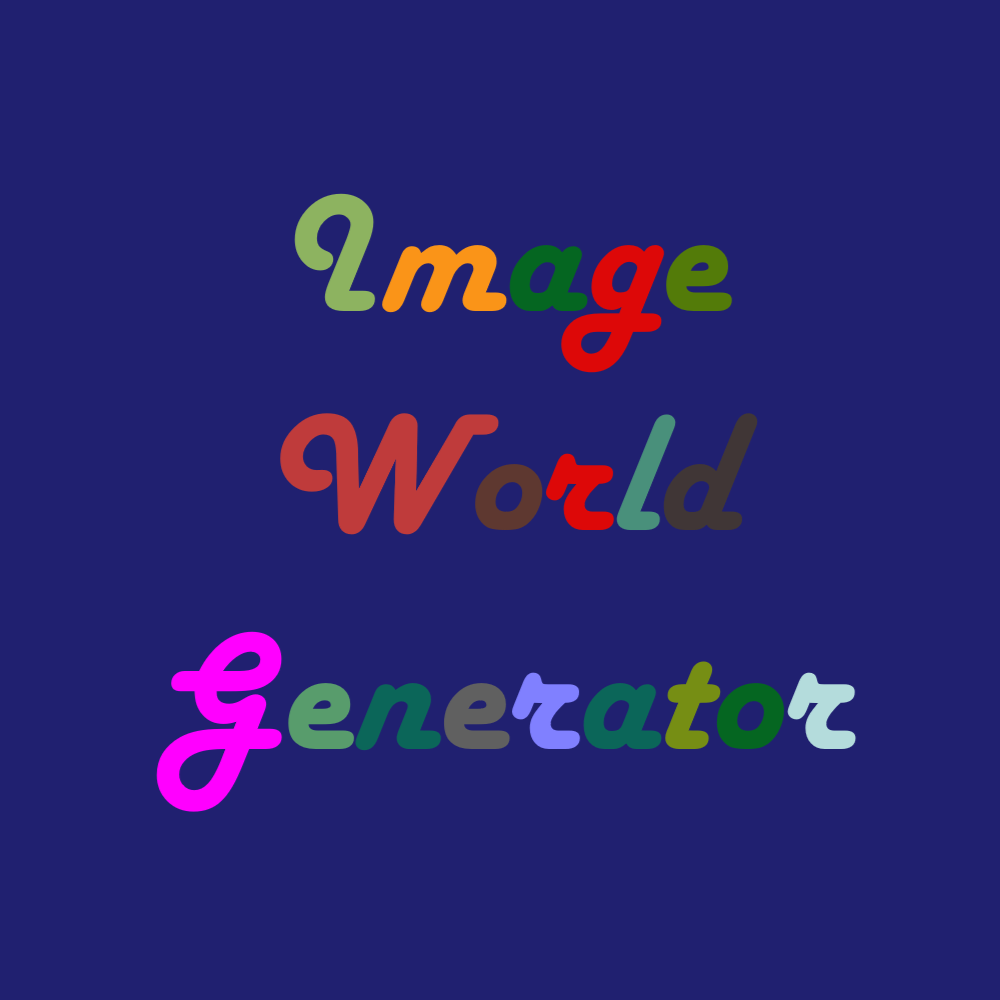
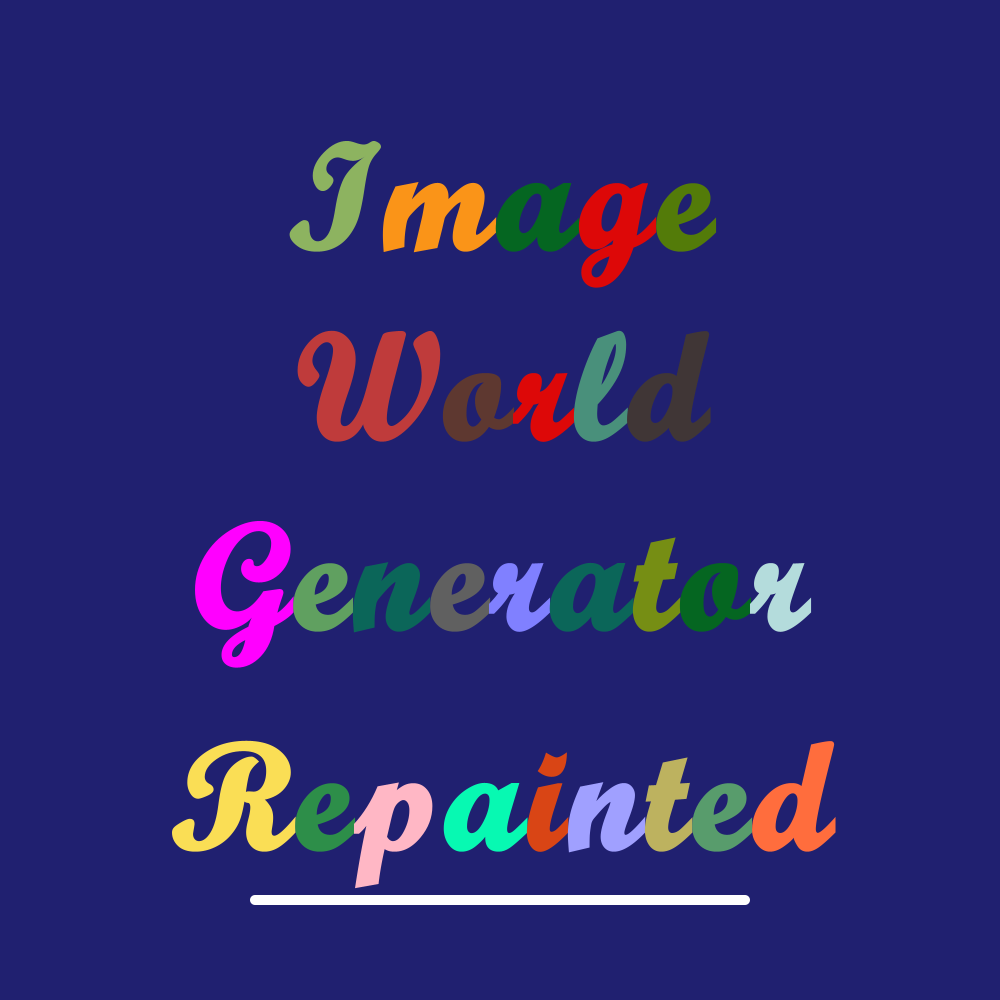
chore: rename to Image World Generator: Repainted and add publish assets
Prepare the first release of this continuation under a name of its own,
so it cannot be mistaken for the original mod. The mod id stays imggen.

- Set the display name to "Image World Generator: Repainted" and use it
  as the README title.
- Replace the in-game icon with one in the style of the original,
  adding the word "Repainted".
- Add a publish folder with the project page description, the other
  listing details (summary, categories, dependencies, links,
  changelog), the logo and gallery pictures.

Assisted-by: claude-opus-5.5

Changed region(s): [[0.155, 0.124, 0.868, 0.93]]

diff --git a/publish/listing.md b/publish/listing.md
@@ -1,0 +1,73 @@
+# Listing details
+
+Everything a project page asks for besides the long description, which is in `description.md`.
+
+## Name
+
+Image World Generator: Repainted
+
+Mod id: `imggen` (unchanged from the original mod)
+
+## Summary
+
+Generate a Minecraft world from images: paint biomes, heights and structures as colours and the terrain
+follows your map. Unofficial NeoForge continuation of ImageWorldGenerator.
+
+## Categories
+
+- CurseForge: World Gen, with the subcategories Biomes and Structures
+- Modrinth: `worldgen`, optionally `adventure`
+
+## Environment
+
+- Server: required
+- Client: required in single player. Not verified for clients joining a server that has the mod; without
+  it the feedback of the `/imggen` command shows untranslated keys.
+
+## Dependencies
+
+| | |
+| --- | --- |
+| Required | Minecraft 1.21.1, NeoForge 21.1.x, Java 21 |
+| Optional | TerraBlender 4.1 or newer |
+
+Built and tested against NeoForge 21.1.228.
+
+## License
+
+LGPL-3.0, the license of the original mod.
+
+## Files
+
+- `logo.png`: 1000x1000 project icon, in the style of the original mod's icon
+- `images/`: pictures for the gallery of the project page. The description cannot refer to local files, so
+  it contains none; upload them to the gallery instead.
+  - `painted-map.png` and `generated-world.png`: an input image and the world generated from it
+  - `map-to-world.png`: both halves in one picture
+
+## Links
+
+Entered in the link fields of the project page, not in the description:
+
+- Source: https://github.com/U15383319/ImageWorldGenerator-Unofficial
+- Issues: https://github.com/U15383319/ImageWorldGenerator-Unofficial/issues
+
+## Changelog
+
+### 2.0.0 for NeoForge 1.21.1
+
+First release of this continuation. Compared to ImageWorldGenerator 1.3.2 (Fabric 1.16.5):
+
+- Ported to NeoForge for Minecraft 1.21.1.
+- Terrain follows the painted biomes: oceans, rivers, beaches, hills and peaks are shaped from the image.
+- The world type is now a regular world preset ("Image World"); on servers use `level-type=imggen\:imggen`.
+- Biomes of other mods: `/imggen colors` assigns colours and writes a reference sheet; TerraBlender based
+  mods keep their own surface blocks.
+- Nether, End and void biomes can be painted into the overworld.
+- Outside the image the world is void by default. New option `limitWorldToImage` adds a world border
+  around the image.
+- Players spawn on land inside the image.
+- Images are loaded once into a compact form; any number of colours is supported.
+- Removed options: `largeBiomes`, `segmentImageWidth`, `segmentImageHeight`, `imageCacheSize`.
+- Existing config files keep working; `continuousGen` and `defaultBiome` only change for newly created
+  configs.

diff --git a/publish/description.md b/publish/description.md
@@ -1,0 +1,29 @@
+# Image World Generator: Repainted
+
+**Turn a picture into a world.** This mod generates a Minecraft world from an image: every colour becomes a biome and the terrain follows it. Oceans are deep, rivers cut valleys, beaches sit at the waterline and peaks become mountains. Optional images set exact heights and place structures.
+
+> This is an **unofficial continuation** of [ImageWorldGenerator](https://github.com/28Pollux28/ImageWorldGenerator) by 28Pollux28 (Fabric, Minecraft 1.16.5), ported to NeoForge 1.21.1 and reworked for the new world generation. It is not affiliated with the original author. Licensed under LGPL-3.0, like the original.
+
+## Features
+
+- **Any image works.** Every pixel is matched to the biome with the closest colour. All vanilla biomes have a built-in colour, and you can add or override colours in the config.
+- **Terrain that fits the picture.** The shoreline follows the image, while the land itself is shaped by the game's own terrain noise, so it looks natural and keeps its caves, aquifers and ores.
+- **Height map (optional).** A greyscale image sets the exact surface height of every column.
+- **Structure image (optional).** Place villages, temples, strongholds and other structures where you want them, and blacklist the ones you do not want at all.
+- **Biomes of other mods.** `/imggen colors` gives every modded biome a colour and writes a reference sheet you can open in a browser. With TerraBlender installed, biomes from mods built on it keep their own surface blocks.
+- **Nether, End and void biomes** can appear in the overworld and bring their own blocks. The void leaves a hole.
+- **A world that ends with the image.** Outside the image there is nothing by default. Prefer an endless sea or vanilla terrain out there? One config option. A world border around the image is available too.
+
+## Getting started
+
+1. Start the game once. This creates `config/imggen.json` and the folder `imggen/image/` in the game directory.
+2. Put your image into `imggen/image/` and set its file name as `biomesImageName` in the config.
+3. Create a world with the world type **Image World**. On a dedicated server, set `level-type=imggen\:imggen` in `server.properties`.
+
+The image is centred on the world origin, and one pixel is one block unless you change `biomesImageScale`. `/imggen debug` shows which pixel and biome apply where you stand.
+
+## Good to know
+
+- The config and the images are **not stored in the world save**. If you change them after creating a world, newly generated chunks will not line up with the old ones.
+- Only the overworld is generated from images; the Nether and the End are vanilla.
+- The height map covers Y 0 to 255.

diff --git a/README.md b/README.md
@@ -1,4 +1,4 @@
-# ImageWorldGenerator-Unofficial
+# Image World Generator: Repainted
 
 A NeoForge mod for Minecraft 1.21.1 that generates a world from images: one image paints the biomes (and
 with them the terrain), optional ones set exact heights and place structures.
